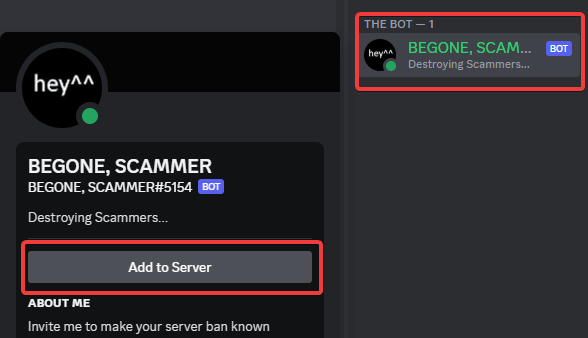
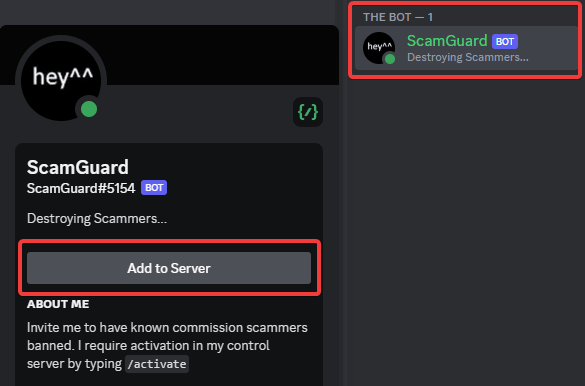
Update the bot's name
Closes #33

Changed region(s): [[0.0, 0.0, 1.0, 0.3846], [0.0308, 0.6213, 0.5538, 1.0], [0.0308, 0.4142, 0.4, 0.5917]]

diff --git a/docs/_includes/install_info.html b/docs/_includes/install_info.html
@@ -1,15 +1,15 @@
-<p>It is really easy to setup the bot and enable the protection it provides for your community. Just follow these simple steps!</p>
+<p>It is really easy to setup ScamGuard and enable the protection it provides for your community. Just follow these simple steps!</p>
 
 <ol>
     <li>Join the TAG server via <a href="/discord">this link</a>.</li>
-    <li>Invite the bot account using one of the methods below.
+    <li>Invite the ScamGuard account using one of the methods below.
         <ul>
-            <li>Selecting the bot account in the Discord and clicking "Add To Server":
+            <li>Selecting ScamGuard account in the Discord and clicking "Add To Server":
                 <img src="{{ '/assets/botaccount.png' | relative_url }}" />
             </li>
             <li>Install via this <a href="/app-install">Discord app link</a>.</li>
         </ul>
-		<span class="install-note"><b>RECOMMENDED</b>: Place the bot's newly created role one level <u>below</u> your server's moderator role <b>OR</b> one level <u>above</u> your regular members role. This helps prevent Discord permission mismatches that may occasionally occur.</span>
+		<span class="install-note"><b>RECOMMENDED</b>: Place the newly created ScamGuard role one level <u>below</u> your server's moderator role <b>OR</b> one level <u>above</u> your regular members role. This helps prevent Discord permission mismatches that may occasionally occur.</span>
     </li>
-    <li>Activate the bot by typing <code class="language-plaintext highlighter-rouge">/activate</code> in the TAG Server!</li>
+    <li>Activate ScamGuard by typing <code class="language-plaintext highlighter-rouge">/activate</code> in the TAG Server!</li>
 </ol>

diff --git a/docs/privacy.md b/docs/privacy.md
@@ -1,13 +1,13 @@
 ---
 title: Privacy Policy
-description: The Privacy Policy for the Antiscam Discord bot
+description: The Privacy Policy for the ScamGuard Discord bot
 redirect_from: /privacy-policy
 previous: /
 ---
 
 # Privacy Policy
 
-The usage of this service/application ("bot") in your server requires the collection of some specific user data. Usage and interaction of the bot is considered an agreement to this policy. 
+The usage of this service/application ("bot") in your server requires the collection of some specific user data. Usage and interaction of ScamGuard ("the bot") is considered an agreement to this policy. 
 
 ## What is collected?
 
@@ -42,6 +42,8 @@ Outside of the information laid out above, no.
 ## How do I remove the data the bot has on me/my servers?
 
 Kick/remove the bot from your server. Data will be removed the next time the bot is either online or is processing events.
+
+Data will be fully removed from the active working database and all backups within three calendar weeks.
 
 ## What about...?
 

diff --git a/docs/faq.md b/docs/faq.md
@@ -1,10 +1,10 @@
 ---
 title: FAQ
-description: Answers regarding the bot, what it does and other things!
+description: Answers regarding ScamGuard, what it does and other things!
 previous: /
 ---
 
-## The Bot
+## The Bot, ScamGuard
 ---
 
 ### What is this project in a nutshell?

diff --git a/docs/index.md b/docs/index.md
@@ -1,6 +1,6 @@
 ---
 title: Home
-description: Information about The Antiscam Group and the Antiscam Discord bot
+description: Information about The Antiscam Group and the ScamGuard Discord bot
 ---
 
 # The Antiscam Group (TAG)

diff --git a/docs/terms.md b/docs/terms.md
@@ -1,6 +1,6 @@
 ---
 title: Terms of Service
-description: The Terms of Service for the Antiscam Discord bot
+description: The Terms of Service for the ScamGuard Discord bot
 redirect_from: /terms-of-service
 ---
 

diff --git a/docs/install.md b/docs/install.md
@@ -1,6 +1,6 @@
 ---
 title: Installation
-description: Simple installation directions for the bot
+description: Simple installation directions for ScamGuard
 ---
 
 {% include install_info.html %}

diff --git a/docs/about.md b/docs/about.md
@@ -1,6 +1,6 @@
 ---
 title: Commission Scammer Bot
-description: About the Antiscam Discord Bot
+description: About ScamGuard, the Antiscam Discord Bot
 redirect_from: /bot
 ---
 
